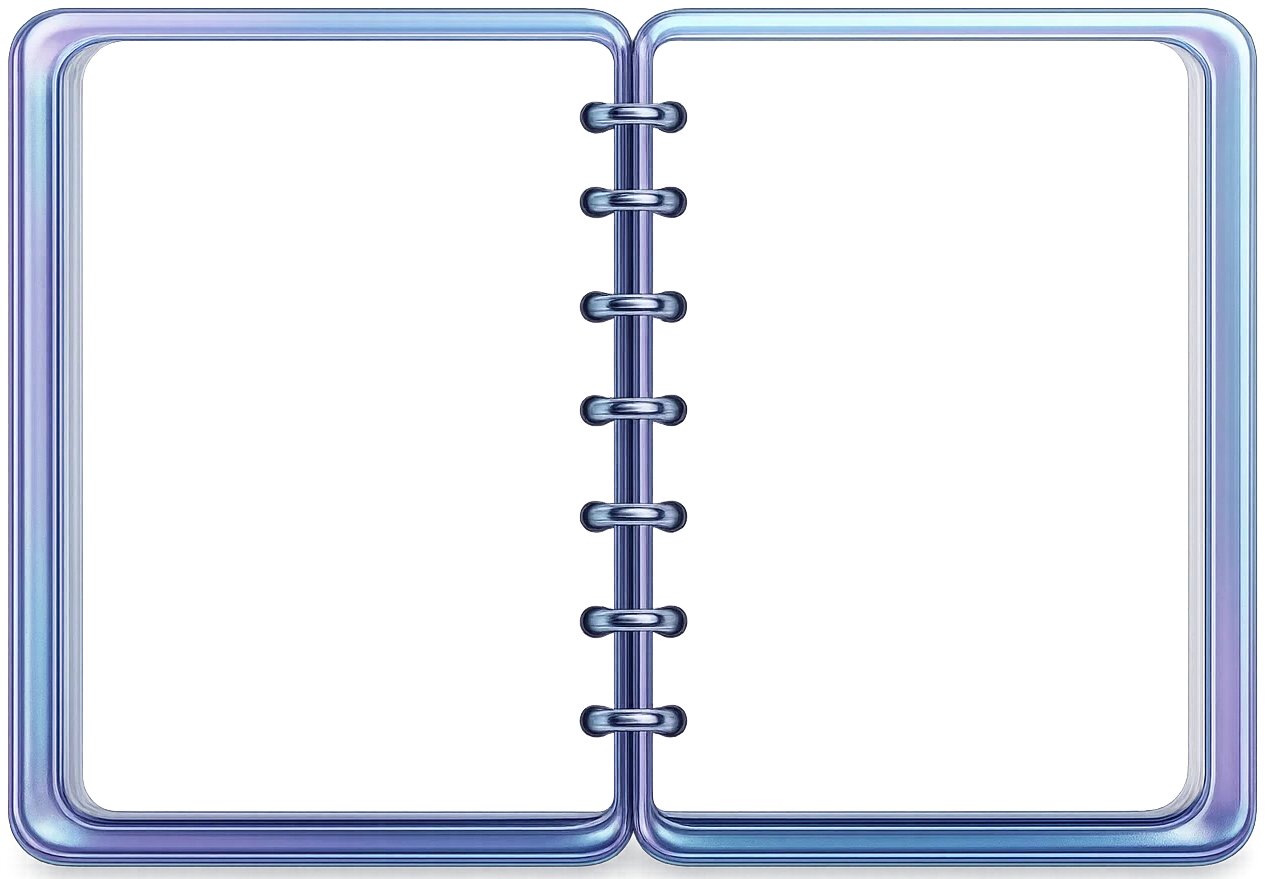
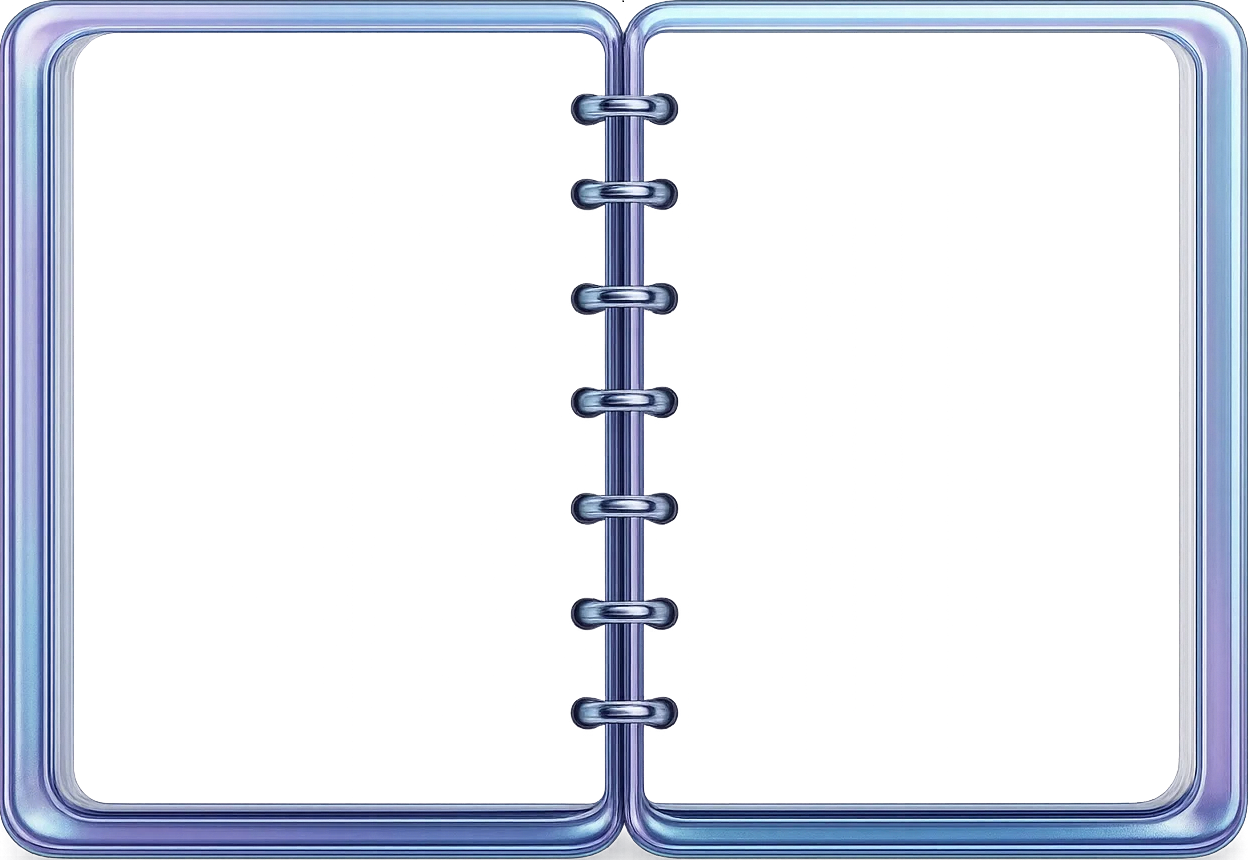
update

Changed region(s): [[0.0, 0.0, 1.0, 1.0]]

diff --git a/estilo.css b/estilo.css
@@ -728,43 +728,85 @@ section {
 
 #agendamento {
   background-color: rgb(255, 0, 200);
-  display: flex;
   box-sizing: border-box;
   align-items: center;
-  justify-content: start;
+  
   width: 100%;
   height: 100vh;
   
 }
 
+.elementos-agenda{
+  width: 100%;
+  height: 100%;
+  display: grid;
+  grid-template-columns: 50% 50%;
+  gap: 5%;
+
+ 
+}
+
+.elementos-agenda > * {
+  border: solid 2px blue;
+
+}
+/* Botão para agendar*/
+
+.botao-agendamento {
+  
+ 
+}
 .agenda {
-  width: 50%;
+  width: 70%;
   height: 100%;
   display: flex;
   justify-content: center;
   align-items: center;
   position: relative;
-  border: solid 2px red;
+  aspect-ratio: 4 / 5;
 }
 
 
 .agenda img {
-  aspect-ratio: 13 / 9;
+  aspect-ratio: 4 / 5;
   width: 100%;
   height: auto;
   position: absolute;
   z-index: 2;
+  display: ;
   
 }
 
 .agenda .paginas{
-  background-color: white; 
-  width: 100%;
-  height: ;
+  background-color: rgb(255, 255, 255); 
+  width: 87%;
+  aspect-ratio: 52 / 71;
   z-index: 1;
   position: absolute;
-  align-self: center;
+  display: flex;
+  align-items: center;
+  justify-content: start;
+  flex-direction: column;
+background-image:
+    linear-gradient(to bottom, rgb(12, 113, 172) 1px, transparent 1px);
+  background-size: 100% 50px;
 
+}
+
+.schedule {
+ 
+  width: auto;
+  height: auto;
+  display: flex;
+  flex-direction: column;
+  margin-top: 15%;
+
+}
+
+.paginas p {
+  text-align: center;
+  color: black;
+ 
 }
 
 /* ------------------------- SECTION SOBRE ----------------------------------- */

diff --git a/index.html b/index.html
@@ -137,10 +137,19 @@
 <!--SECTION AGENDAMENTO -->
     <section class="section" id="agendamento">
       <h1>Olá, mundo</h1>
+      <div class = "elementos-agenda">
+        <div class = "botao-agendamento" ><a href=""></a></div>
+        
       <div class = "agenda">
-        <img src="imgs/layers/agenda.png" alt="">
-        <div class="paginas"></div>
+        <img src="imgs/layers/caderno.png" alt="" draggable="false">
+        <div class="paginas">
+          <div class = "schedule"><p>SEGUNDA-SEXTA 8:00 ás 19:00</p>
+          <p>SÁBADO 09:00 ás 16:00</p></div>
+          
+        </div>
       </div>
+      </div>
+      
       
     </section>
 
